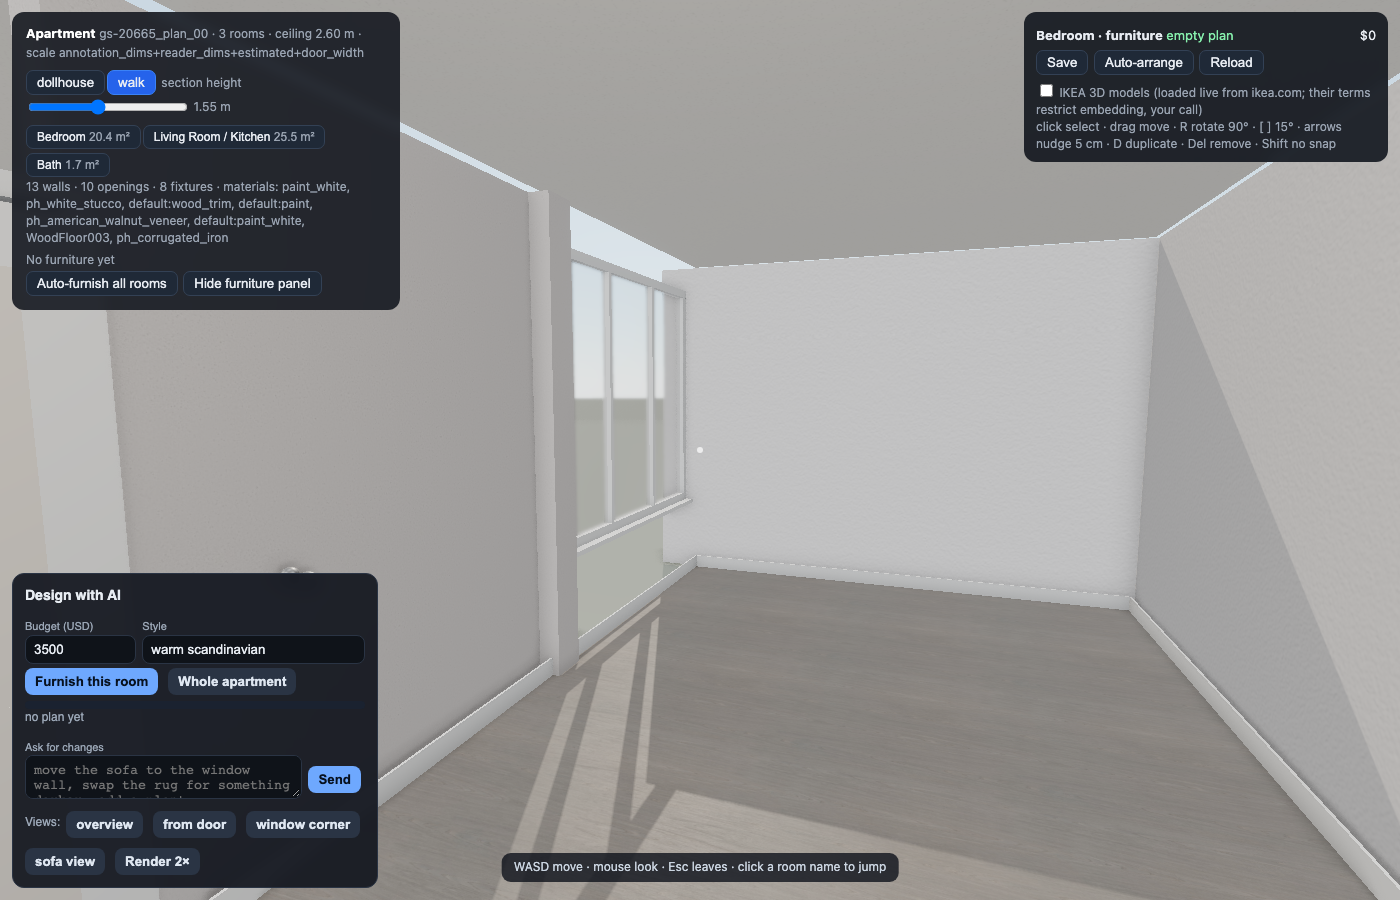
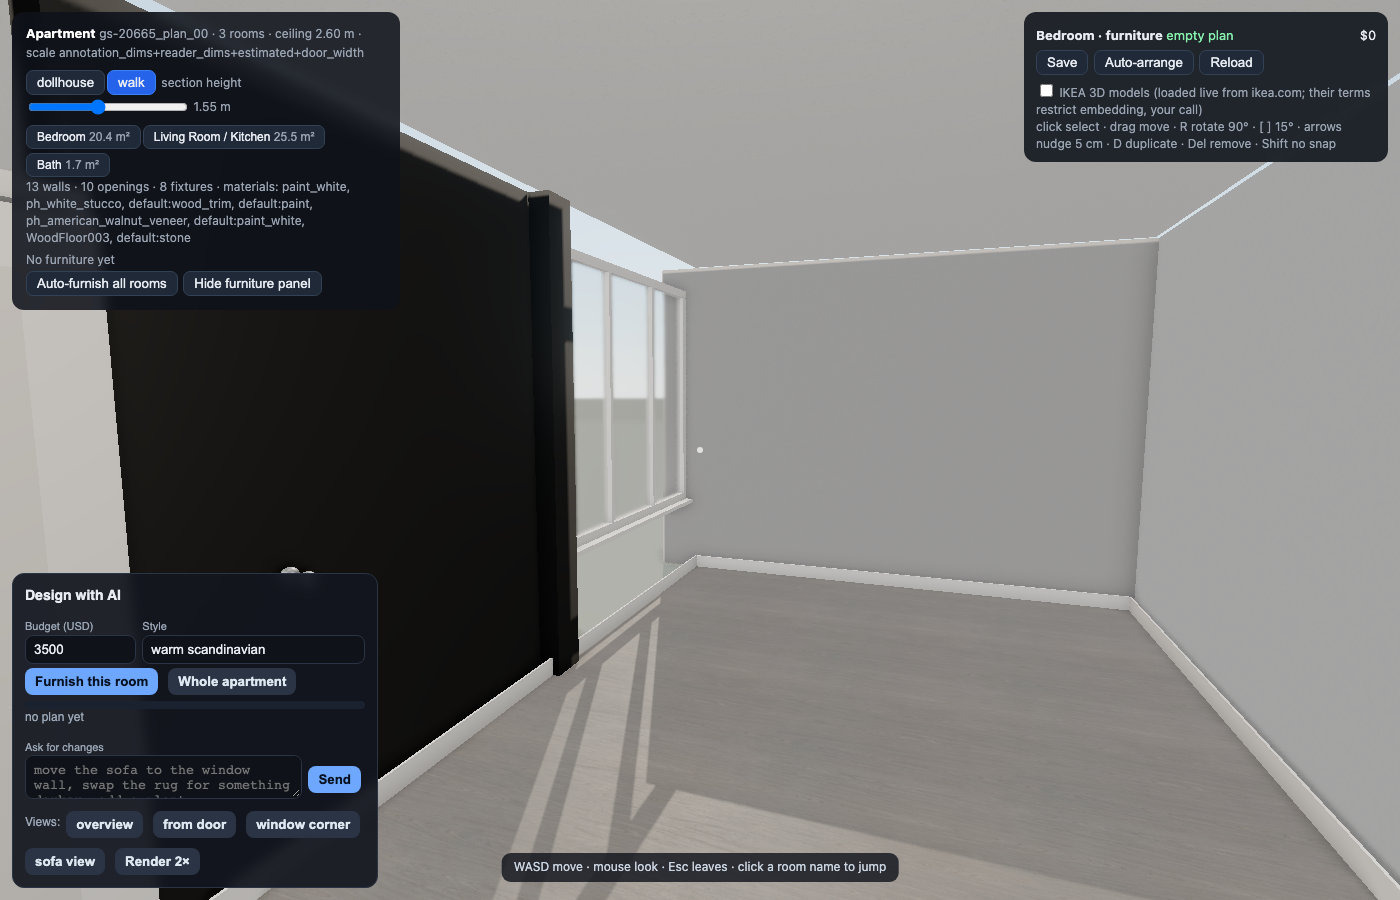
Plan detection sweep across all styles; no-VLM batch mode; screenshot sweep tool; dev log
Claude-Session: https://claude.ai/code/session_013Kh6sN2kjMTzJHmEvoAfdj

diff --git a/app/furnish/agent.js b/app/furnish/agent.js
@@ -70,7 +70,7 @@ el.querySelectorAll('[data-cam]').forEach(b => b.onclick = () => camPreset(b.dat
 $('aiRender').onclick = () => { const w = renderer.domElement.width, h = renderer.domElement.height; renderer.setPixelRatio(Math.min(3, devicePixelRatio * 2)); renderer.render(scene, camera); const url = renderer.domElement.toDataURL('image/png'); renderer.setPixelRatio(devicePixelRatio); const a = document.createElement('a'); a.href = url; a.download = `${layout.unit}_${activeRoomId()}_render.png`; a.click(); };
 
 // ---------- item animations ----------
-function flash(it, color) { it.obj.traverse(o => { if (o.isMesh && o.material && !o.isSprite) { o.material = o.material.clone(); o.material.emissive = new THREE.Color(color); o.material.emissiveIntensity = 0.9; } }); }
+function flash(it, color) { it.obj.traverse(o => { if (!o.isMesh || !o.material || o.isSprite) return; const ms = Array.isArray(o.material) ? o.material : [o.material]; const nm = ms.map(m => { const c = m.clone(); if ('emissive' in c) { c.emissive = new THREE.Color(color); c.emissiveIntensity = 0.9; } else if (c.color) c.color = new THREE.Color(color); return c; }); o.material = Array.isArray(o.material) ? nm : nm[0]; }); }
 async function animatePlace(f, spec, from) {
   const it = await f.addItem(spec, false); const target = new THREE.Vector3(spec.x, 0, spec.z); const start = new THREE.Vector3(from.x, 1.6, from.z); it.obj.position.copy(start); it.obj.scale.setScalar(0.3);
   return new Promise(res => tween(650, e => { it.obj.position.lerpVectors(start, target, e); it.obj.position.y = (1 - e) * 1.6 * (1 - e); it.obj.scale.setScalar(0.3 + 0.7 * e); }, () => { it.obj.position.copy(target); it.obj.scale.setScalar(1); f._refresh(); res(it); }));
@@ -96,7 +96,7 @@ async function furnishRoom(roomId) {
   const from = doorPoint(f); let queue = Promise.resolve();
   return new Promise(resolve => {
     es = new EventSource(`/api/agent/furnish?room=${encodeURIComponent(f.room)}&budget=${budget}&style=${encodeURIComponent(styleTxt)}`);
-    es.onmessage = ev => { const e = JSON.parse(ev.data); queue = queue.then(async () => {
+    es.onmessage = ev => { const e = JSON.parse(ev.data); queue = queue.catch(() => {}).then(async () => {
       if (e.event === 'shortlist') log(`<b>Palette:</b> ${e.palette || ''} · wood: ${e.wood || ''} · accent: ${e.accent || ''}`);
       else if (e.event === 'consider') log(`<span class="dim">considering</span> ${e.item.name} <span class="dim">$${e.item.price_usd}</span>`);
       else if (e.event === 'place') { await animatePlace(f, e.item, from); setSpent(e.spent); log(`<span class="ok">✓ placed</span> ${e.item.name} <span class="dim">· ${e.why || ''}</span>`, 'ok'); }
@@ -105,7 +105,7 @@ async function furnishRoom(roomId) {
       else if (e.event === 'error') log(`error: ${e.message}`, 'bad');
       else if (e.event === 'summary') { $('aiCard').innerHTML = `<div class="card"><b>${e.n_items} items · $${(e.total_usd || 0).toFixed(0)}</b> <span class="dim">(${e.saved_usd >= 0 ? '$' + e.saved_usd.toFixed(0) + ' under budget' : '$' + (-e.saved_usd).toFixed(0) + ' over'})</span><br><span class="dim">${e.palette || ''}</span><br>${e.notes || ''}</div>`; }
       else if (e.event === 'end') { es && es.close(); es = null; await f.loadPlan(); $('aiGo').disabled = false; $('aiAll').disabled = false; $('aiStop').style.display = 'none'; window.furnishOnChange && window.furnishOnChange(); resolve(); }
-    }); };
+    }).catch(err => log(`ui error: ${err.message}`, 'bad')); };
     es.onerror = () => { if (!es) return; log('stream closed', 'dim'); es.close(); es = null; $('aiGo').disabled = false; $('aiAll').disabled = false; $('aiStop').style.display = 'none'; resolve(); };
   });
 }

diff --git a/app/plan3d/apartment.html b/app/plan3d/apartment.html
@@ -70,8 +70,8 @@ const sunDir = sunDirectionFor(layout);
 sky.material.uniforms.turbidity.value = 3.5; sky.material.uniforms.rayleigh.value = 1.3; sky.material.uniforms.mieCoefficient.value = 0.003; sky.material.uniforms.mieDirectionalG.value = 0.85; sky.material.uniforms.sunPosition.value.copy(sunDir);
 const pmrem = new THREE.PMREMGenerator(renderer);
 // interior reflections/ambient: a neutral studio environment (a blue sky env tints every white wall grey-blue); the Sky stays visible through the glass
-scene.environment = pmrem.fromScene(new RoomEnvironment(), 0.04).texture; scene.environmentIntensity = 0.5;
-const hemi = new THREE.HemisphereLight(0xfff4e6, 0x8a7a66, 0.32); scene.add(hemi);
+scene.environment = pmrem.fromScene(new RoomEnvironment(), 0.04).texture; scene.environmentIntensity = 0.62;
+const hemi = new THREE.HemisphereLight(0xfff4e6, 0x8a7a66, 0.45); scene.add(hemi);
 const sun = new THREE.DirectionalLight(0xfff1dc, 2.1); sun.castShadow = true; sun.shadow.mapSize.set(QUALITY === 'high' ? 4096 : 2048, QUALITY === 'high' ? 4096 : 2048); sun.shadow.bias = -0.00025; sun.shadow.normalBias = 0.03; sun.shadow.radius = 3; scene.add(sun); scene.add(sun.target);
 
 // ground outside
@@ -129,7 +129,7 @@ function setDoll() {
 }
 function setWalk(roomId, yawDeg) {
   mode = 'walk'; document.getElementById('bWalk').classList.add('on'); document.getElementById('bDoll').classList.remove('on'); document.getElementById('hint').style.display = 'block'; document.getElementById('cross').style.display = 'block';
-  apt.ceilingMeshes.forEach(m => m.visible = true); apt.labels.forEach(l => l.visible = false); applyClip(false); setFurnClip([]); orbit.enabled = false; labelOcclusion(true); renderer.toneMappingExposure = 1.1;
+  apt.ceilingMeshes.forEach(m => m.visible = true); apt.labels.forEach(l => l.visible = false); applyClip(false); setFurnClip([]); orbit.enabled = false; labelOcclusion(true); renderer.toneMappingExposure = 1.22;
   if (roomId && furn[roomId]) activateRoom(roomId);
   const r = apt.roomMeshes[roomId] || Object.values(apt.roomMeshes)[0]; const c = r.center; camera.fov = 70; camera.updateProjectionMatrix();
   camera.position.set(c.x, 1.6, c.z); const yaw = THREE.MathUtils.degToRad(yawDeg ?? 35); camera.rotation.set(0, 0, 0); camera.lookAt(c.x + Math.sin(yaw), 1.5, c.z + Math.cos(yaw));

diff --git a/app/plan3d/build.js b/app/plan3d/build.js
@@ -43,7 +43,11 @@ export class MaterialLib {
       if (entry.has_normal !== false && hasMap('normal')) { m.normalMap = this._tex(dir + 'normal.jpg', false); m.normalMap.repeat.set(1 / size, 1 / size); m.normalScale.set(0.5, 0.5); }
       if (entry.has_roughness !== false && hasMap('roughness')) { m.roughnessMap = this._tex(dir + 'roughness.jpg', false); m.roughnessMap.repeat.set(1 / size, 1 / size); m.roughness = 1.0; }
       if (slot === 'floor' && entry.category === 'wood_floor') m.envMapIntensity = 0.6;
-      if (entry.category === 'paint' || entry.category === 'plaster') { m.normalScale.set(0.12, 0.12); m.roughness = 0.92; if (m.roughnessMap) { m.roughnessMap = null; } m.envMapIntensity = 0.35; }   // painted walls are nearly flat
+      if (entry.category === 'paint' || entry.category === 'plaster') {   // interior walls are painted drywall: take the swatch's tone, drop the stucco/plaster relief
+        const rgb = entry.mean_rgb || [235, 233, 228]; const mx = Math.max(...rgb, 1); const f = Math.min(1.6, 238 / mx);
+        m.map = null; m.normalMap = null; m.roughnessMap = null; m.color = new THREE.Color(rgb[0] * f / 255, rgb[1] * f / 255, rgb[2] * f / 255); m.roughness = 0.93; m.envMapIntensity = 0.3;
+        const pt = proceduralTexture('paint'); if (pt) { m.map = pt.map; }   // faint eggshell noise only
+      }
       m.userData.materialId = entry.id; m.userData.category = entry.category;
     } else {
       const dk = (slot === 'floor' && roomType && ROOM_FLOOR_DEFAULT[roomType]) || (id && DEFAULTS[id] ? id : null) || SLOT_DEFAULT[slot] || 'paint';

diff --git a/app/plan3d/plan_engine.py b/app/plan3d/plan_engine.py
@@ -197,8 +197,8 @@ def rooms_from(closed, thick):
 
 def is_plan(g):
     """A floor plan is mostly paper (after normalisation): >= 45% near-white pixels and <= 35% ink. Photos and 3D renders fail."""
-    white = float((g > 235).mean()); ink = float((g < 190).mean()); mid = float(((g > 70) & (g < 215)).mean())
-    return white >= 0.45 and ink <= 0.35 and mid <= 0.25   # drawings are paper + ink with few mid-tones; renders and photos are continuous-tone
+    white = float((g > 235).mean()); ink = float((g < 190).mean())
+    return white >= 0.45 and ink <= 0.35   # coloured room fills are fine (1333 Gough); renders/photos are caught by softness()
 
 def softness(path, max_side=800):
     """Ratio of soft gradients to hard edges: drawings ~0.4-1.5, 3D renders and photos > 3."""
@@ -214,7 +214,7 @@ def colourful(path, max_side=400):
 def extract(path, extra=None):
     """extra: list of {'type', 'x0','y0','x1','y1'} in image FRACTIONS to force-bridge (from the VLM review)."""
     g, ink, s = load_ink(path)
-    if not is_plan(g) or colourful(path) > 0.08 or softness(path) > 3.0: raise ValueError(f"not a floor plan (white {float((g > 235).mean()):.2f}, ink {float((g < 190).mean()):.2f}, mid {float(((g > 70) & (g < 215)).mean()):.2f}, colour {colourful(path):.2f})")
+    if not is_plan(g) or softness(path) > 3.0: raise ValueError(f"not a floor plan (white {float((g > 235).mean()):.2f}, ink {float((g < 190).mean()):.2f}, mid {float(((g > 70) & (g < 215)).mean()):.2f}, colour {colourful(path):.2f})")
     wm, thick = walls_two_tone(g); pieces, blocks = wall_rects(wm, thick)
     loose = (g < 235).astype(np.uint8)
     closed, openings = bridge(pieces, g.shape, thick, ink=loose)
@@ -605,9 +605,10 @@ def apply_annotation(L, E, A):
     return L
 
 if __name__ == "__main__":
-    if sys.argv[1] == "layout":   # plan_engine.py layout <plan image> [sqft]  -> app/plan3d/layouts/<listing>_<plan stem>.json
-        pth = pathlib.Path(sys.argv[2]); listing = pth.parts[-3]; unit = f"{listing}_{pth.stem}"
-        L, out = run(pth, listing, unit, pathlib.Path(__file__).parent / "layouts", sqft=float(sys.argv[3]) if len(sys.argv) > 3 else None)
+    if sys.argv[1] == "layout":   # plan_engine.py layout <plan image> [sqft] [--novlm]  -> app/plan3d/layouts/<listing>_<plan stem>.json
+        novlm = "--novlm" in sys.argv; args = [a for a in sys.argv[2:] if not a.startswith("--")]
+        pth = pathlib.Path(args[0]); listing = pth.parts[-3]; unit = f"{listing}_{pth.stem}"
+        L, out = run(pth, listing, unit, pathlib.Path(__file__).parent / "layouts", sqft=float(args[1]) if len(args) > 1 else None, use_reader=not novlm)
         print(json.dumps({"unit": unit, "m_per_px": L["scale"]["m_per_px"], "from": L["scale"]["from"], "walls": len(L["walls"]), "openings": len(L["openings"]), "rooms": [(r["id"], r["area_m2"]) for r in L["rooms"]], "fixtures": len(L["fixtures"])}), "->", out)
     else:
         for p in sys.argv[1:]:

diff --git a/app/plan3d/batch.py b/app/plan3d/batch.py
@@ -1,13 +1,13 @@
 """Layouts for every plan image of the given listings (skips plans already done), then rooms_export; writes layouts/index.json."""
 import sys, json, glob, pathlib, subprocess, time
 HERE = pathlib.Path(__file__).resolve().parent; ROOT = HERE.parents[1]; PY = str(ROOT / "feasibility/.venv/bin/python")
-listings = sys.argv[1:]; done = []
+novlm = "--novlm" in sys.argv; listings = [a for a in sys.argv[1:] if not a.startswith("--")]; done = []
 for lid in listings:
     meta = json.load(open(ROOT / "feasibility/listings" / lid / "meta.json")); plans = sorted(p for p in glob.glob(str(ROOT / "feasibility/listings" / lid / "plans/plan_*.[jp]*g")))
     for p in plans:
         unit = f"{lid}_{pathlib.Path(p).stem}"; out = HERE / "layouts" / f"{unit}.json"
         if not out.exists():
-            r = subprocess.run([PY, str(HERE / "plan_engine.py"), "layout", p], capture_output=True, text=True, cwd=str(ROOT))
+            r = subprocess.run([PY, str(HERE / "plan_engine.py"), "layout", p] + (["--novlm"] if novlm else []), capture_output=True, text=True, cwd=str(ROOT))
             if not out.exists(): print(f"[batch] {unit} FAILED: {r.stderr[-300:]}", flush=True); continue
             subprocess.run([PY, str(HERE / "rooms_export.py"), unit], capture_output=True, text=True, cwd=str(ROOT))
         L = json.load(open(out)); plan_name = next((f.get("name") for f in meta.get("floorplans", []) if f.get("file", "").endswith(pathlib.Path(p).name)), None)

diff --git a/app/plan3d/shots.py b/app/plan3d/shots.py
@@ -1,0 +1,20 @@
+"""Headless dollhouse screenshot of every unit in layouts/index.json -> app/plan3d/shots/<unit>.jpg; records page errors."""
+import sys, json, asyncio, pathlib
+from playwright.async_api import async_playwright
+HERE = pathlib.Path(__file__).resolve().parent; OUT = HERE / "shots"; OUT.mkdir(exist_ok=True)
+units = [d["unit"] for d in json.load(open(HERE / "layouts" / "index.json"))]
+if len(sys.argv) > 1: units = [u for u in units if any(u.startswith(a) for a in sys.argv[1:])]
+async def main():
+    async with async_playwright() as p:
+        b = await p.chromium.launch(channel="chrome", args=["--use-gl=swiftshader", "--enable-unsafe-swiftshader"]); report = {}
+        for u in units:
+            if (OUT / f"{u}.jpg").exists(): continue
+            pg = await b.new_page(viewport={"width": 1200, "height": 800}); errs = []
+            pg.on("pageerror", lambda e, errs=errs: errs.append(str(e)[:200]))
+            try:
+                await pg.goto(f"http://127.0.0.1:8765/plan3d/apartment.html?unit={u}", timeout=60000); await pg.wait_for_timeout(8000)
+                await pg.screenshot(path=str(OUT / f"{u}.jpg"), type="jpeg", quality=80)
+            except Exception as e: errs.append(f"nav: {str(e)[:120]}")
+            await pg.close(); report[u] = errs; print(f"[shots] {u}: {'ok' if not errs else errs[0]}", flush=True)
+        await b.close(); json.dump(report, open(OUT / "errors.json", "w"), indent=1)
+asyncio.run(main())

diff --git a/DEVLOG.md b/DEVLOG.md
@@ -220,3 +220,20 @@ Segmentation + harness -> segmentation-driven layout -> panorama completion -> l
 - Coordinator (this log's author): geometry-only sweep over all 444 plan images (418 readable; 98 with fewer than 2
   rooms, 72 without doors, 130 without windows) to harden plan detection across drawing styles; documentation rewrite
   (README = concept and how to run, ARCHITECTURE = contracts, DEVLOG = history); git repository initialised and pushed.
+
+## Oct 24 14:20: plan detection across all 444 plan images (ROADMAP step 1)
+- `app/plan3d/sweep.py` runs the geometry-only engine over every plan and writes per-building contact sheets
+  (`sweep/<lid>.jpg`) and `sweep/sweep.json`; `sweep_compare.py` diffs two runs (ok / rooms>=2 / doors>0 / windows>0).
+- Styles found and handled: SightMap schematics (350-480 px, grey exterior walls, thin windows); architect marketing
+  sheets with titles and footers (777 Tenn, 1000 Green, 1333 Gough with coloured room fills); marketing plans with heavy
+  grey exterior wall fills and furniture drawn (Solaire, Alchemy, Jasper); off-white paper scans (33 8th); photos
+  mislabelled as plans; 3D rendered "plans" (1177 Market, Nob Hill Tower), which are out of scope and rejected.
+- Fixes this round: paper-tone normalisation; stroke thickness from LONG skeleton strokes only (titles no longer hijack
+  it); two wall weights per tone class (thin interior + heavy exterior) with geometry parameters from the dominant one;
+  elongated thick components are walls, compact ones are blocks; door reference width from confident arcs in an
+  image-relative range (2.5-12% of the image) so title letters cannot set it; windows on long gaps need parallel lines
+  and a blank outside; renders rejected by gradient softness (soft/hard ratio > 3), coloured fills allowed.
+- Metric after v3 (strict rejection, before the colour relaxation): rooms>=2 320 -> 325, doors>0 346 -> 348, windows>0
+  288 -> 304 of 418 readable plans; 777 Tenn went from 1/15 to 15/15. v4 running with coloured plans re-admitted.
+- Still weak: tall narrow plans with large black exterior masses (Jasper), bathroom enclosure when the door arc is faint,
+  entry corridors open to the front door, thin closet-back walls read as gaps.
